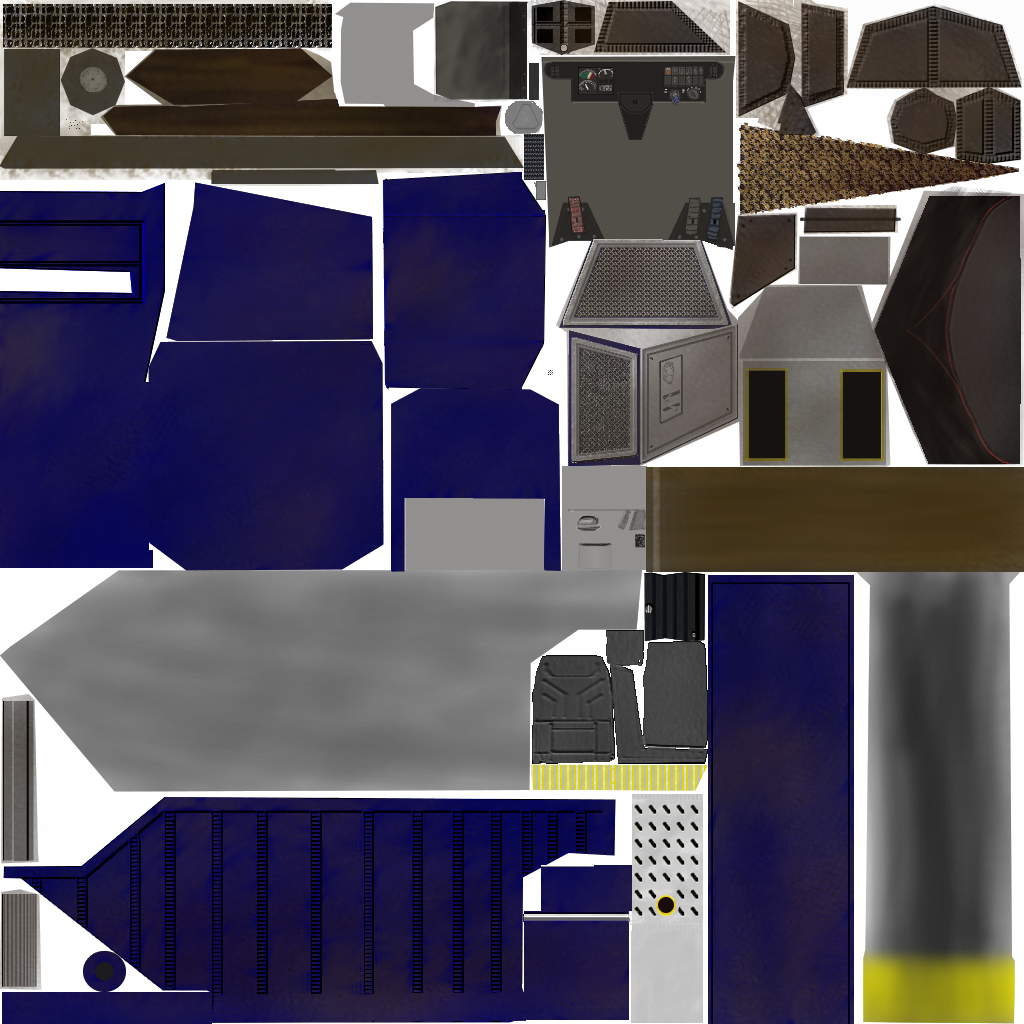
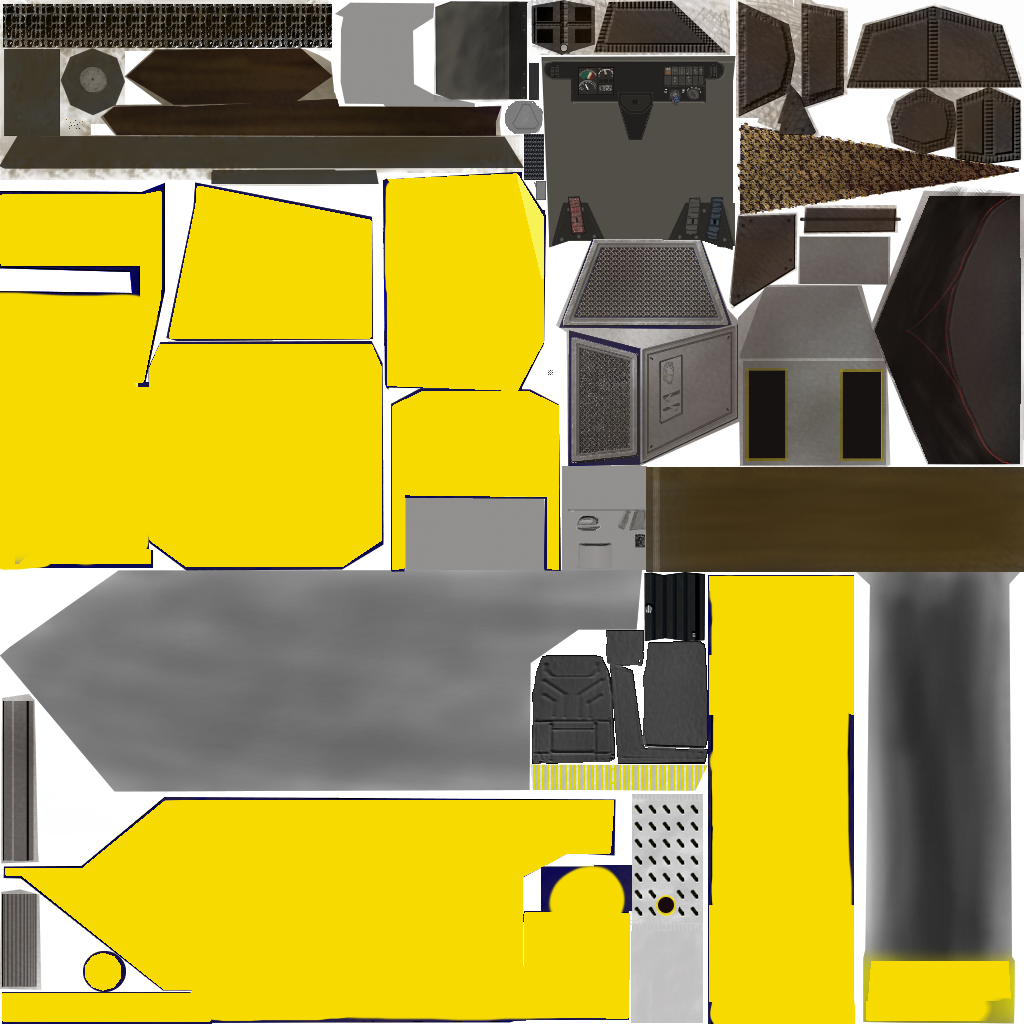
- Removed collision from slab lights - Fixed vehicle spawning - Improved minemachinery model

diff --git a/src/lib/atom/entities/structures/dalegacycityvehicles.cpp b/src/lib/atom/entities/structures/dalegacycityvehicles.cpp
@@ -12,6 +12,7 @@
 #include "aulegacycitystate.h"
 #include "auordnance.h"
 #include "auqueryenvironment.h"
+#include "daatomlist.h"
 #include "dalegacycity.h"
 #include "daperson.h"
 #include "dbindustry.h"
@@ -85,13 +86,52 @@ AuBox SpawnBounds(DaWorldLL& world, const AuPoint& location)
 	const AuPoint extent = (x + y + up) * SpawnRadius;
 	return AuBox(location - extent, location + extent);
 }
+
+bool LandSpawnFits(const DaWorldLL& world, const AuLegacyCityCatalogue& catalogue,
+	const Development& slab, const AuBox& occupied, const QVector<Development>& buildings)
+{
+	// The whole vehicle, including aircraft parked on land, must fit on the
+	// slab. A centre-only test can leave long vehicles hanging over a building.
+	for(const auto& corner : occupied.m_fCorners)
+	{
+		AuGlobeLLF ll;
+		if(!world.LLOfLoc(ll, corner) || !ProductionRoadContains(world, slab, ll)) return false;
+	}
+	AuPoint worldMinimum, worldMaximum; occupied.GetMinMax(worldMinimum, worldMaximum);
+	const AuPoint center = (worldMinimum + worldMaximum) / 2;
+	const double altitude = world.AltitudeMSL(center);
+	const double vehicleRadius = worldMinimum.Distance(worldMaximum) / 2;
+	for(const auto& building : buildings)
+	{
+		if(building.demolished || !building.designId || building.industryId == 2 || building.industryId == 129) continue;
+		const auto* recipe = building.constructionProcessId
+			? catalogue.ConstructionProcess(ConstructionProcessId(building.constructionProcessId))
+			: catalogue.ConstructionProcessForIndustry(IndustryId(building.industryId));
+		if(!recipe) return false;
+		const double radius = recipe->buildRadius * FeetPerMeter();
+		const double reach = std::sqrt(2.0) * radius + vehicleRadius;
+		// Compare at the same altitude before tangent projection, so sites
+		// on the opposite side of a globe cannot masquerade as overlapping.
+		if(world.LocOfLL(building.location, altitude).Distance2(center) > reach * reach) continue;
+		AuMatrix4x4 placement;
+		world.BuildingConstructionTransform(world.LocOfLL(building.location, building.altitudeMSL),
+			building.facingRadians, nullptr, AuPoint(), placement);
+		AuBox local(occupied); local.Transform(placement.Inverse());
+		AuPoint minimum, maximum; local.GetMinMax(minimum, maximum);
+		// Reject the footprint regardless of height: a roof is never a
+		// production parking spot, even if a slab extends under the building.
+		if(maximum.x >= -radius && minimum.x <= radius
+			&& maximum.y >= -radius && minimum.y <= radius) return false;
+	}
+	return true;
+}
 }
 
 bool IsSpawnedProductionVehicle(quint16 commodity)
 {
 	switch(commodity)
 	{
-	case 6: case 7: case 8: case 9: case 28: case 77:
+	case 6: case 7: case 8: case 9: case 28: case 54: case 77:
 	case 82: case 103: case 104: case 132: case 133: case 231: return true;
 	default: return false;
 	}
@@ -150,7 +190,6 @@ bool VehicleProductionBatch::Apply(quint32 development, quint16 slot, const Prod
 			}
 			if(blocked) continue;
 			attempt.selected = candidate;
-			attempt.selected.placement.RotateZ(g_Au.Dice().Roll(1, 360, -1) * DEG2RAD);
 			attempt.vehicle->RoughExtents(attempt.occupied);
 			attempt.occupied.Transform(attempt.selected.placement);
 			const COMMODITYID fuel = attempt.vehicle->FuelType();
@@ -199,6 +238,11 @@ bool PrepareVehicleProduction(DaLegacyCity& city, DaWorldLL& world, const State&
 	VehicleProductionBatch batch;
 	batch.m_Data->world = &world;
 	QVector<Development> roads;
+	QVector<Development> buildings = state.developments;
+	DaAtomList cities; world.ListNormalSubatoms(cities);
+	for(const auto* atom : cities)
+		if(const auto* other = dynamic_cast<const DaLegacyCity*>(atom))
+			if(other != &city) buildings += other->Snapshot().developments;
 	for(const auto& development : state.developments)
 		if(development.industryId == 2 && !development.demolished && development.completedLevels) roads.append(development);
 	std::stable_sort(roads.begin(), roads.end(), [](const Development& a, const Development& b) { return a.location < b.location; });
@@ -224,6 +268,14 @@ bool PrepareVehicleProduction(DaLegacyCity& city, DaWorldLL& world, const State&
 		if(!FinishProduction(*catalogue, preview, resources.value(found->id), now, result)) continue;
 		VehicleProductionBatch::Data::Attempt attempt;
 		attempt.development = found->id; attempt.slot = process.slot; attempt.commodity = result.commodityId;
+		attempt.vehicle.reset(new DaVehicle(COMMODITYID(runtime), result.quality));
+		attempt.vehicle->Create(); // Geometry is needed to validate the complete parking footprint.
+		AuBox vehicleBounds;
+		if(!attempt.vehicle->RoughExtents(vehicleBounds)) continue;
+		AuPoint minimum, maximum; vehicleBounds.GetMinMax(minimum, maximum);
+		if(maximum.x <= minimum.x || maximum.y <= minimum.y || maximum.z <= minimum.z) continue;
+		const float height = attempt.vehicle->GroundHeightAboveCG();
+		const double facing = g_Au.Dice().Roll(1, 360, -1) * DEG2RAD;
 		const bool boat = result.commodityId == 77 || result.commodityId == 132;
 		const AuPoint center = world.LocOfLL(found->location, boat ? 0 : found->altitudeMSL);
 		AuMatrix4x4 building;
@@ -253,6 +305,7 @@ bool PrepareVehicleProduction(DaLegacyCity& city, DaWorldLL& world, const State&
 			AuGlobeLLF ll;
 			if(!world.LLOfLoc(ll, proposed)) continue;
 			VehicleProductionBatch::Data::Candidate candidate;
+			const Development* parkingSlab = nullptr;
 			if(boat)
 			{
 				if(!world.Hydrographics()) continue;
@@ -269,10 +322,23 @@ bool PrepareVehicleProduction(DaLegacyCity& city, DaWorldLL& world, const State&
 			else
 			{
 				const auto road = std::find_if(roads.cbegin(), roads.cend(),
-					[&world, &ll](const Development& value) { return ProductionRoadContains(world, value, ll); });
-				if(road == roads.cend() || !road->roadSlab) continue;
+					[&world, &ll](const Development& value) { return value.roadSlab && ProductionRoadContains(world, value, ll); });
+				if(road == roads.cend()) continue;
+				parkingSlab = &*road;
 				candidate.slab = road->id;
-				candidate.ground = world.GetSurfaceLocation(ll);
+				candidate.ground = world.LocOfLL(ll, road->roadStartAltitudeMSL);
+			}
+			candidate.placement.Translate(candidate.ground);
+			candidate.placement *= AuPoint(0, 0, 1).GetAlignmentTransform(-world.GravityDir(candidate.ground));
+			candidate.placement.Translate(0, 0, height);
+			candidate.placement.RotateZ(facing);
+			if(attempt.vehicle->LandingOrientation() == LORI_Tail)
+				candidate.placement.RotateX(PI / 2); // Rockets park on their tail, not their belly.
+			if(!boat)
+			{
+				AuBox occupied(vehicleBounds); occupied.Transform(candidate.placement);
+				if(!parkingSlab || !LandSpawnFits(world, *catalogue, *parkingSlab, occupied, buildings)) continue;
+				candidate.bounds = occupied;
 			}
 			// Land vehicles retain the original four qualifying slab limit.
 			// Keep boat alternatives for simultaneous production; Apply picks
@@ -280,18 +346,8 @@ bool PrepareVehicleProduction(DaLegacyCity& city, DaWorldLL& world, const State&
 			if(!boat && ++tried > 4) break;
 			candidate.obstructed = world.IsSpawnAreaObstructed(candidate.ground, SpawnRadius);
 			if(boat && candidate.obstructed) continue;
-			candidate.bounds = SpawnBounds(world, candidate.ground);
-			candidate.placement.Translate(candidate.ground);
-			candidate.placement *= AuPoint(0, 0, 1).GetAlignmentTransform(-world.GravityDir(candidate.ground));
+			if(boat) candidate.bounds = SpawnBounds(world, candidate.ground);
 			attempt.candidates.append(candidate);
-		}
-		if(std::any_of(attempt.candidates.cbegin(), attempt.candidates.cend(),
-			[](const VehicleProductionBatch::Data::Candidate& candidate) { return !candidate.obstructed; }))
-		{
-			attempt.vehicle.reset(new DaVehicle(COMMODITYID(runtime), result.quality));
-			attempt.vehicle->Create(); // Identity/model only; no insertion or callbacks.
-			const float height = attempt.vehicle->GroundHeightAboveCG();
-			for(auto& candidate : attempt.candidates) candidate.placement.Translate(0, 0, height);
 		}
 		batch.m_Data->attempts.push_back(std::move(attempt));
 	}

diff --git a/src/lib/atom/entities/structures/dalegacycityeconomy.cpp b/src/lib/atom/entities/structures/dalegacycityeconomy.cpp
@@ -1069,7 +1069,6 @@ void DaLegacyCity::TockEconomy(qint64 previous, qint64 now)
 					}
 					else switch(output.commodityId)
 					{
-					case 54: // Mine machinery
 					case 70: // Commercial ship
 						// DpBuilding::Tick 0x5f22c0 registers these without
 						// spawning an atom, then consumes their applied inputs.
@@ -1077,12 +1076,6 @@ void DaLegacyCity::TockEconomy(qint64 previous, qint64 now)
 						ConsumeProductionComponents(process);
 						break;
 					case 71:  // Naval ship
-					case 103: // Tank
-						// The original registers these too, but retains inputs
-						// and reports -99 instead of completing the output.
-						if(!production.vehicles.contains(output.commodityId)) production.vehicles.append(output.commodityId);
-						process.lastQuantity = -99;
-						break;
 					default:
 						process.lastQuantity = -99;
 						break;

diff --git a/src/lib/data/designs/aulegacybuildinggeometry.cpp b/src/lib/data/designs/aulegacybuildinggeometry.cpp
@@ -837,6 +837,8 @@ void RunwayLight(Builder& out, const QPointF& location, float foundationDepth = 
 {
 	// DpDevelopment::CreateRunwayLight 0x64bc40: eight-sided one-foot
 	// fixture, 1/6-foot stem and half-foot light cap (BuildingTexture 38).
+	const bool previousNoCollision = out.noCollision;
+	out.noCollision = true;
 	out.mesh.exteriorLights.append({Position(location, 1), true});
 	for(int i=0;i<8;++i)
 	{
@@ -848,6 +850,7 @@ void RunwayLight(Builder& out, const QPointF& location, float foundationDepth = 
 		out.Quad(38,0,false,p(a,1.f/6,2.f/3),p(b,1.f/6,2.f/3),p(b,.5f,5.f/6),p(a,.5f,5.f/6));
 		out.Triangle(38,0,false,p(a,.5f,5.f/6),p(b,.5f,5.f/6),Position(location,1));
 	}
+	out.noCollision = previousNoCollision;
 }
 }
 

diff --git a/src/lib/atom/entities/structures/aulegacycityvehicles.h b/src/lib/atom/entities/structures/aulegacycityvehicles.h
@@ -22,8 +22,8 @@ AUATOM_DLL bool ProductionRoadEndpoints(const DaWorldLL& world, const Developmen
 AUATOM_DLL bool ProductionRoadContains(const DaWorldLL& world, const Development& road, const AuGlobeLLF& point);
 AUATOM_DLL AuPoint ProductionSpawnOffset(int index);
 
-// Original physical vehicle outputs; virtual mine/commercial/naval/tank
-// registrations remain separate from these slab and water spawns.
+// Physical vehicle outputs, including restored Mine Machinery and Tanks.
+// Land vehicles and aircraft use slabs; boats use water spawns.
 AUATOM_DLL bool IsSpawnedProductionVehicle(quint16 commodity);
 
 // Gather terrain, obstructions and unpublished vehicle geometry before taking
